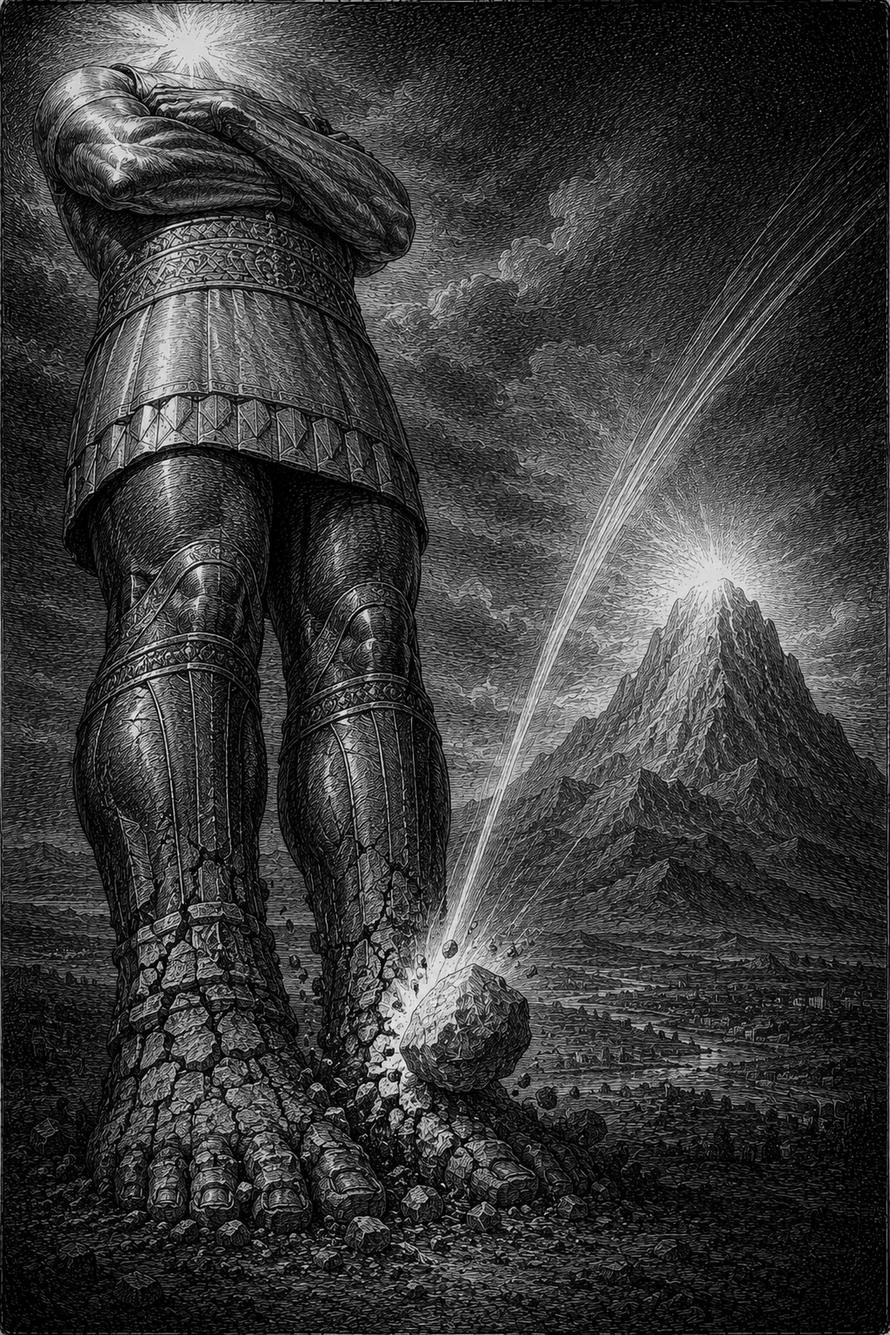
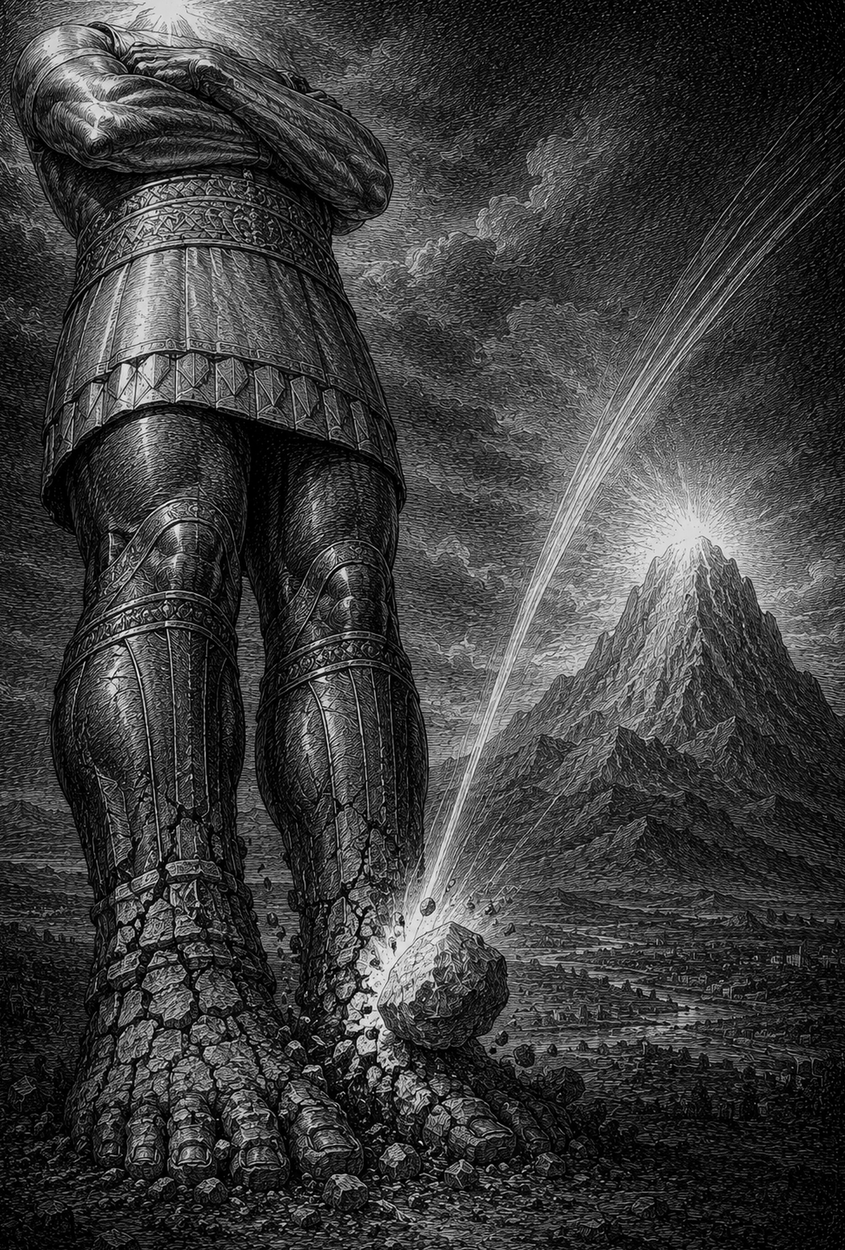
Full-bleed interior: 6.25x9.25 with 0.125in bleed all round — plates run edge to edge
trade-bleed theme extends trade with page+margin geometry only; every
margin grows by the bleed so the text block sits identically relative
to trim — pagination unchanged at 431. All 29 plates reprocessed from
color masters: 2.5% rough-rim shave, re-cropped to bleed aspect
(311dpi). TTT cover plate floats on a dark plate-tone field instead
(its lettering runs to its edges and cannot be crop-fitted). Plate
versos now read as chapter markers on the fore-edge. Screen PDF stays
at bare 6x9. Verify BookBaby interior bleed spec at upload.

diff --git a/books/symbolic-language/print/build.rb b/books/symbolic-language/print/build.rb
@@ -147,7 +147,9 @@ build_target = lambda do |media, out|
     $fn_detected_pages = {}
     attrs = {
       'pdf-themesdir'       => DIR,
-      'pdf-theme'           => 'trade',
+      # prepress carries 0.125in bleed on all sides (trade-bleed extends trade
+      # with page + margin geometry only); screen stays at bare 6x9 trim
+      'pdf-theme'           => (media == 'prepress' ? 'trade-bleed' : 'trade'),
       'pdf-fontsdir'        => FONTS,   # base fonts use explicit GEM_FONTS_DIR/ prefixes; Hebrew fonts resolve here
       'media'               => media,
       'hyphens'             => 'en',
